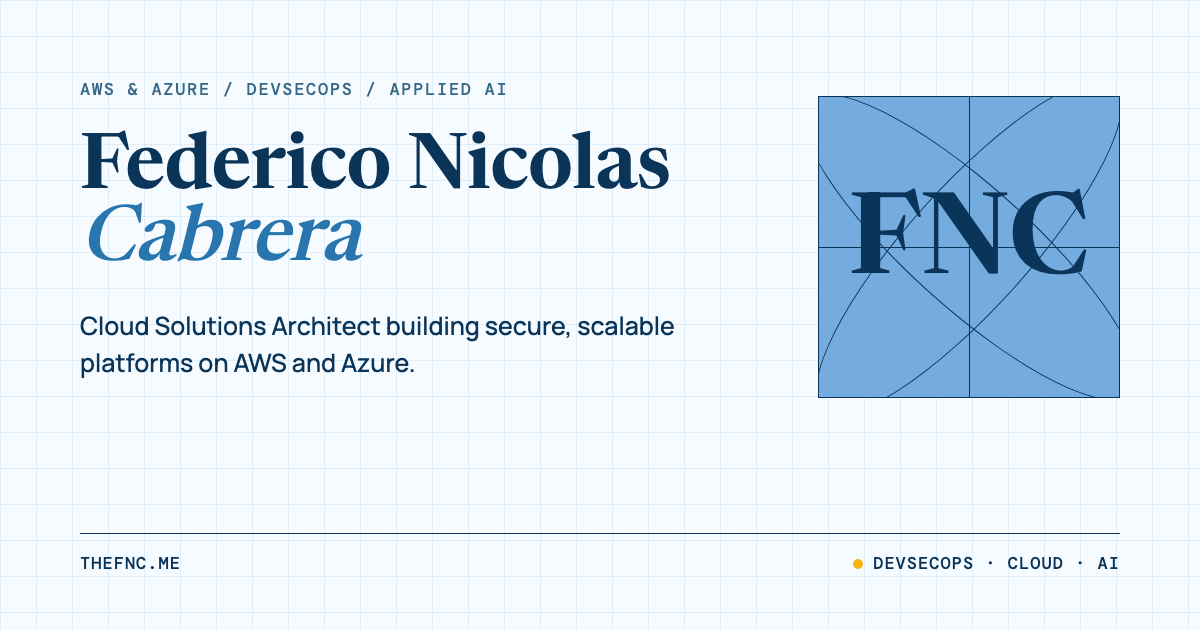
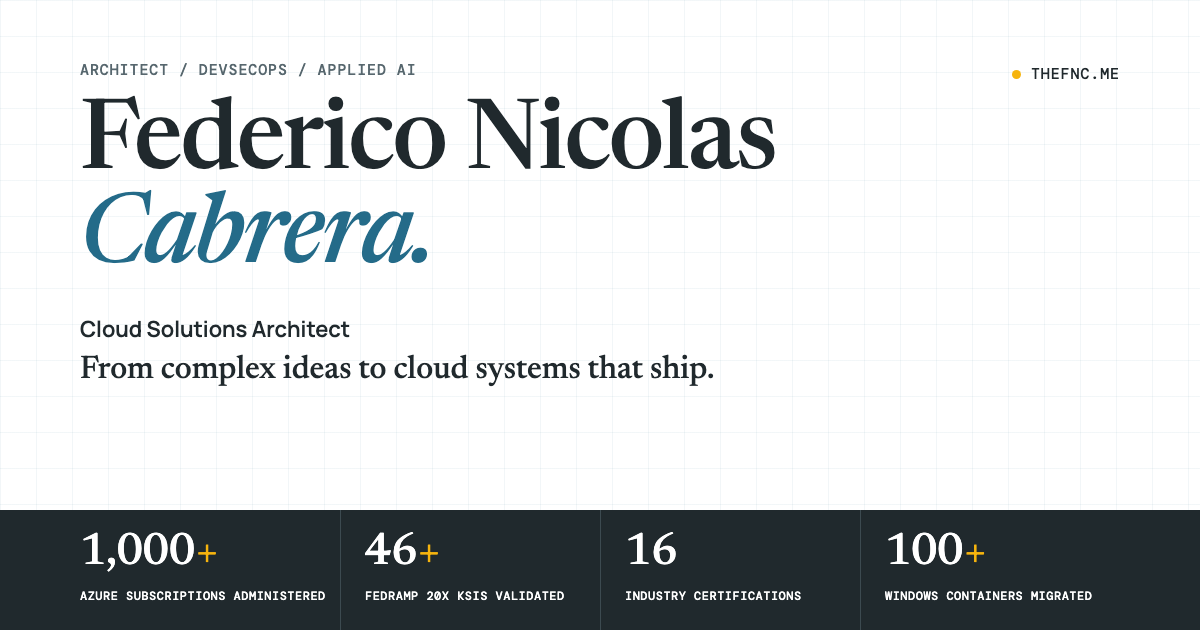
Update Open Graph and Twitter card metadata for improved sharing and SEO

diff --git a/index.html b/index.html
@@ -14,11 +14,11 @@
   <meta property="og:url" content="https://www.thefnc.me/" />
   <meta property="og:title" content="Federico Nicolas Cabrera | Cloud Solutions Architect" />
   <meta property="og:description" content="Cloud Solutions Architect with a DevSecOps and AI engineering background, building secure cloud platforms on AWS and Azure." />
-  <meta property="og:image" content="https://www.thefnc.me/assets/og-image.png" />
+  <meta property="og:image" content="https://www.thefnc.me/assets/og-image.png?v=2" />
   <meta property="og:image:type" content="image/png" />
   <meta property="og:image:width" content="1200" />
   <meta property="og:image:height" content="630" />
-  <meta property="og:image:alt" content="Federico Nicolas Cabrera, Cloud Solutions Architect building secure, scalable platforms on AWS and Azure." />
+  <meta property="og:image:alt" content="Federico Nicolas Cabrera, Cloud Solutions Architect: From complex ideas to cloud systems that ship." />
   <meta property="og:locale" content="en_US" />
   <meta property="og:locale:alternate" content="es_AR" />
   <meta property="profile:first_name" content="Federico Nicolas" />
@@ -26,8 +26,8 @@
   <meta name="twitter:card" content="summary_large_image" />
   <meta name="twitter:title" content="Federico Nicolas Cabrera | Cloud Solutions Architect" />
   <meta name="twitter:description" content="Cloud Solutions Architect with a DevSecOps and AI engineering background, building secure cloud platforms on AWS and Azure." />
-  <meta name="twitter:image" content="https://www.thefnc.me/assets/og-image.png" />
-  <meta name="twitter:image:alt" content="Federico Nicolas Cabrera, Cloud Solutions Architect building secure, scalable platforms on AWS and Azure." />
+  <meta name="twitter:image" content="https://www.thefnc.me/assets/og-image.png?v=2" />
+  <meta name="twitter:image:alt" content="Federico Nicolas Cabrera, Cloud Solutions Architect: From complex ideas to cloud systems that ship." />
   <script type="application/ld+json">
     {
       "@context": "https://schema.org",
